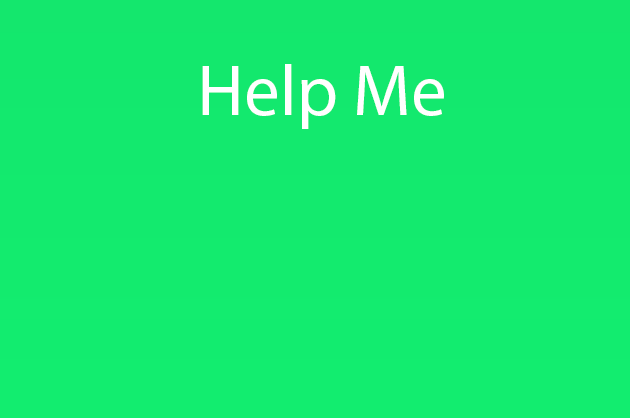
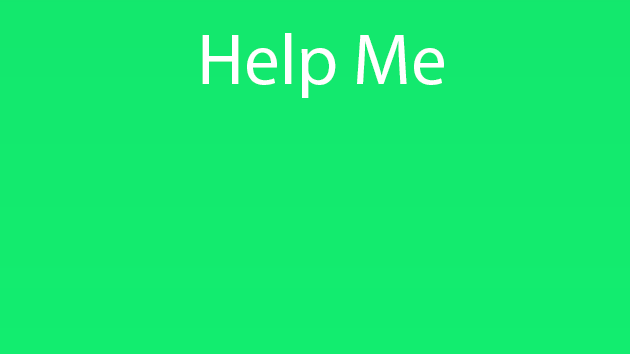
add style  to posts 2

Changed region(s): [[0.3016, 0.0932, 0.7238, 0.3107], [0.3016, 0.0932, 0.3317, 0.1554]]

diff --git a/assets/css/style.css b/assets/css/style.css
@@ -711,7 +711,7 @@ input[type=text]:focus, textarea:focus {
     border-radius: 10px;
     font-weight: normal;
     left: 40px;
-    top: 300px;
+    top: 260px;
     height: auto;
     resize: vertical;
     text-align: center;
